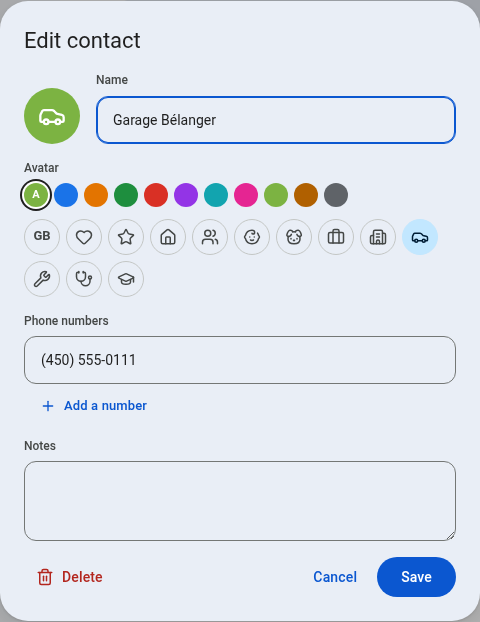
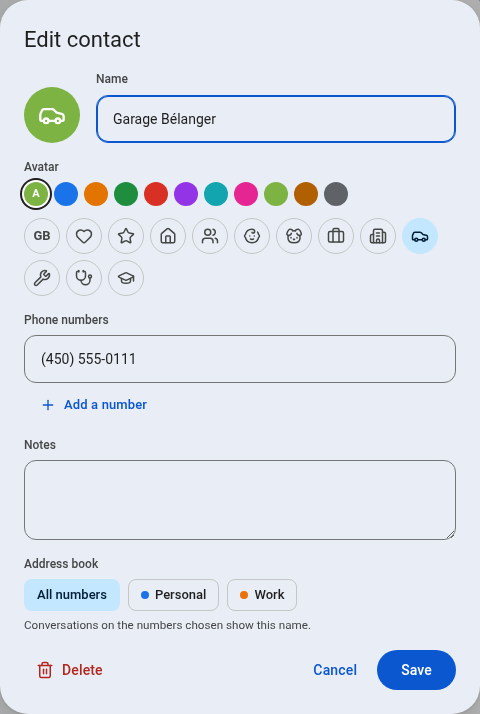
Docs: address books, My numbers, VoIP.ms accounts and the activity log
The changelog and both READMEs describe step 4 for users. The contact
dialog's screenshots now show the address book choice, and the dark
one the demo garage's texts at their new time.

Claude-Session: https://claude.ai/code/session_017DPatftpySKBibwtCMwkAq

diff --git a/README.fr.md b/README.fr.md
@@ -54,7 +54,7 @@ Tapez un nom ou un numéro : les contacts sont suggérés au fil de la frappe. A
 
 ### Assistant de configuration
 
-Au premier lancement, l'assistant vérifie les identifiants, affiche l'adresse IP que voit VoIP.ms (à ajouter à sa liste blanche), puis liste vos numéros pour les choisir, les nommer et leur donner une couleur. Activer un numéro dont le SMS est désactivé l'active dans votre compte VoIP.ms ; la ligne le dit avant. Il demande ensuite comment les nouveaux textos doivent arriver au portail (voir [Réception des textos](#réception-des-textos)).
+Au premier lancement, l'assistant vérifie les identifiants, affiche l'adresse IP que voit VoIP.ms (à ajouter à sa liste blanche), puis liste vos numéros pour les choisir, les nommer et leur donner une couleur. Activer un numéro dont le SMS est désactivé l'active dans votre compte VoIP.ms ; la ligne le dit avant. Il demande ensuite comment les nouveaux textos doivent arriver au portail (voir [Réception des textos](#réception-des-textos)). D'autres comptes VoIP.ms, un par client par exemple, s'ajoutent ensuite dans *Réglages* → *Comptes VoIP.ms*, avec les mêmes étapes.
 
 | Autoriser l'adresse IP | Choisir ses numéros |
 | --- | --- |
@@ -65,6 +65,8 @@ Au premier lancement, l'assistant vérifie les identifiants, affiche l'adresse I
 Les contacts sont enregistrés sur le serveur : tous les navigateurs voient les mêmes noms. Ajoutez-les à la main ou importez un fichier `.vcf` exporté de Google Contacts, d'iCloud ou de votre téléphone. Chacun peut avoir sa couleur d'avatar, et une icône à la place de ses initiales (maison, travail, famille, auto…) ; les numéros se mettent en forme pendant la saisie.
 
 Pour en supprimer plusieurs d'un coup, touchez *Sélectionner*, cochez des contacts ou *Tout sélectionner* (après une recherche : tous ceux qu'elle a trouvés), puis *Supprimer* ; leurs conversations restent. Juste après un import, *Annuler* retire les contacts ajoutés, si le mauvais fichier est passé.
+
+Avec plusieurs numéros, chaque contact appartient à un carnet : celui de tous les numéros, ou ceux de certains numéros seulement (un même téléphone peut alors être un contact différent sur chacun). En mode Équipe, chacun a aussi un carnet personnel que lui seul voit, dont les noms passent en premier dans ses conversations.
 
 | Liste des contacts | Modifier un contact |
 | --- | --- |
@@ -104,7 +106,7 @@ Renommez ou recolorez vos numéros, désactivez ceux que vous n'utilisez pas, sy
 
 ### Mode Équipe
 
-Pour un bureau ou une famille, où plusieurs personnes répondent aux textos. Le propriétaire l'active dans *Réglages* → *Mode Équipe* en créant le premier administrateur, pour de bon. Chacun se connecte ensuite avec son propre courriel et son mot de passe. Les administrateurs ajoutent les utilisateurs et choisissent les numéros avec lesquels chacun texte, en lecture seule ou avec l'envoi; ils donnent un nouveau mot de passe à qui a oublié le sien, et suspendent ou suppriment un compte. Un utilisateur ne voit que les conversations et les notifications de ses numéros, et ses propres réglages. Chaque texto envoyé du portail indique qui l'a envoyé. Pour chaque numéro, les administrateurs choisissent si tous partagent ce qui est lu et archivé (par défaut) ou si chacun garde le sien, dans *Réglages* → *Numéros*. Chacun voit les navigateurs connectés à son compte et peut en déconnecter n'importe lequel, dans *Réglages* → *Mon compte*. `APP_PASSWORD` ouvre toujours le portail en propriétaire (*Connexion du propriétaire*), pour quand aucun administrateur ne le peut.
+Pour un bureau ou une famille, où plusieurs personnes répondent aux textos. Le propriétaire l'active dans *Réglages* → *Mode Équipe* en créant le premier administrateur, pour de bon. Chacun se connecte ensuite avec son propre courriel et son mot de passe. Les administrateurs ajoutent les utilisateurs et choisissent les numéros avec lesquels chacun texte, en lecture seule ou avec l'envoi; ils donnent un nouveau mot de passe à qui a oublié le sien, et suspendent ou suppriment un compte. Un utilisateur ne voit que les conversations et les notifications de ses numéros, et ses propres réglages. Chaque texto envoyé du portail indique qui l'a envoyé. Pour chaque numéro, les administrateurs choisissent si tous partagent ce qui est lu et archivé (par défaut) ou si chacun garde le sien, dans *Réglages* → *Numéros*; chacun peut aussi masquer un numéro pour lui seul, ou couper ses notifications, dans *Réglages* → *Mes numéros*. Chacun voit les navigateurs connectés à son compte et peut en déconnecter n'importe lequel, dans *Réglages* → *Mon compte*, et les administrateurs voient qui s'est connecté et ce qui a changé dans *Réglages* → *Journal d'activité*. `APP_PASSWORD` ouvre toujours le portail en propriétaire (*Connexion du propriétaire*), pour quand aucun administrateur ne le peut.
 
 ### Sur téléphone, et dans le noir
 

diff --git a/README.md b/README.md
@@ -54,7 +54,7 @@ Type a name or a number: contacts are suggested as you type. With several number
 
 ### Setup wizard
 
-On first launch, the wizard checks the credentials, shows the IP address VoIP.ms sees (to add to its whitelist), then lists your numbers so you can pick, name and color them. Turning on a number whose SMS is off enables it in your VoIP.ms account; the row says so beforehand. It then asks how new texts should reach the portal (see [Receiving texts](#receiving-texts)).
+On first launch, the wizard checks the credentials, shows the IP address VoIP.ms sees (to add to its whitelist), then lists your numbers so you can pick, name and color them. Turning on a number whose SMS is off enables it in your VoIP.ms account; the row says so beforehand. It then asks how new texts should reach the portal (see [Receiving texts](#receiving-texts)). Other VoIP.ms accounts, one per client for instance, are added later in *Settings* → *VoIP.ms accounts*, with the same steps.
 
 | Allowing the IP address | Choosing your numbers |
 | --- | --- |
@@ -65,6 +65,8 @@ On first launch, the wizard checks the credentials, shows the IP address VoIP.ms
 Contacts are stored on the server, so every browser sees the same names. Add them by hand or import a `.vcf` file exported from Google Contacts, iCloud or your phone. Each one can have its own avatar color, and an icon instead of its initials (home, work, family, car…); numbers are formatted as you type them.
 
 To delete many at once, tap *Select*, tick contacts or *Select all* (after a search, all the contacts it found), then *Delete*; their conversations stay. Right after an import, *Undo* removes the contacts it added, if the wrong file went in.
+
+With several numbers, each contact belongs to an address book: every number's, or only some numbers' (the same phone can then be a different contact on each). In Team mode, everyone also has a personal book that only they see, whose names come first in their conversations.
 
 | Contact list | Editing a contact |
 | --- | --- |
@@ -104,7 +106,7 @@ Rename or recolor numbers, turn off the ones you do not use, sync now or import 
 
 ### Team mode
 
-For an office or a family, where several people answer the texts. The owner turns it on in *Settings* → *Team mode* by creating the first administrator, for good. Each person then signs in with their own email and password. Administrators add the users and choose the numbers each one texts from, read only or with sending; they give a new password to whoever forgot theirs, and suspend or delete an account. A user sees the conversations and notifications of their numbers only, and their own settings. Each text sent from the portal shows who sent it. For each number, administrators choose whether everyone shares what is read and archived (the default) or each person keeps their own, in *Settings* → *Numbers*. Everyone can see the browsers signed in to their account and sign any of them out, in *Settings* → *My account*. `APP_PASSWORD` still opens the portal as its owner (*Owner sign-in*), for when no administrator can.
+For an office or a family, where several people answer the texts. The owner turns it on in *Settings* → *Team mode* by creating the first administrator, for good. Each person then signs in with their own email and password. Administrators add the users and choose the numbers each one texts from, read only or with sending; they give a new password to whoever forgot theirs, and suspend or delete an account. A user sees the conversations and notifications of their numbers only, and their own settings. Each text sent from the portal shows who sent it. For each number, administrators choose whether everyone shares what is read and archived (the default) or each person keeps their own, in *Settings* → *Numbers*; each person can also hide a number for themselves, or mute it, in *Settings* → *My numbers*. Everyone can see the browsers signed in to their account and sign any of them out, in *Settings* → *My account*, and administrators see who signed in and what changed in *Settings* → *Activity log*. `APP_PASSWORD` still opens the portal as its owner (*Owner sign-in*), for when no administrator can.
 
 ### On a phone, and in the dark
 

diff --git a/CHANGELOG.md b/CHANGELOG.md
@@ -8,6 +8,11 @@ All notable changes to this project. Versions follow [Semantic Versioning](https
   - A user sees the conversations, pictures, live updates and push notifications of their own numbers only. On a number given to them read only, they read the texts but cannot send, retry or delete any.
   - Each text sent from the portal says who sent it, under the bubble: the user's name (or email), *Owner*, or *You*.
   - For each number, *Settings* → *Numbers* chooses whether everyone shares what is read and archived (the default), or each person keeps their own unread counts and archive. Going back to shared, a conversation someone read counts as read.
+  - Each person can hide a number from their own list in *Settings* → *My numbers*, without hiding it for the others.
+  - *Settings* → *Activity log* shows the administrators the last 180 days of sign-ins (refused ones too), devices signed out, password changes, changes to users, numbers and VoIP.ms accounts, and deletions, with who did each and from which address.
+- **Address books per number.** A contact can be in every number's book (where your contacts are after this update, so nothing changes for them), in the books of some numbers only, or in your own personal book, which only you see. A conversation shows the name from your personal book first, then from its number's. The same phone number can be a different contact in each book. In Team mode, users see the contacts of their numbers' books and change those of the numbers they may text from; every number's book is the administrators'. Imports go to the book you choose.
+- **Mute a number.** *Settings* → *My numbers* turns off the notifications of one number and keeps the others.
+- **Several VoIP.ms accounts, from Settings.** *Settings* → *VoIP.ms accounts* adds another account (one per client, for instance) step by step: its API access, its credentials, the IP address to allow, then its numbers. Each account can be renamed, tested, and given a new API password.
 - **Docker runs the same server as shared hosting.** The image now serves the portal with PHP and Apache, from the same files as the cPanel package, and checks VoIP.ms on its own every few seconds while no tab is open, as before. The portal is the same everywhere, so every new feature reaches both ways of hosting it at once. Updating keeps everything: `docker compose pull && docker compose up -d` opens your data as it is, conversations, contacts, settings, push notifications and the VoIP.ms credentials typed in the wizard (read once, which takes a couple of seconds on the first start) included. What changes:
   - Open tabs ask for news every 3 seconds instead of keeping a connection open: `LIVE_UPDATES` is gone, and a reverse proxy no longer needs response buffering turned off.
   - The logs show errors only, not every request. `LOG_LEVEL`, `HOST` and `WEB_DIR` are no longer read; `PORT`, `TRUST_PROXY`, `PUID` and `PGID` work as before.
